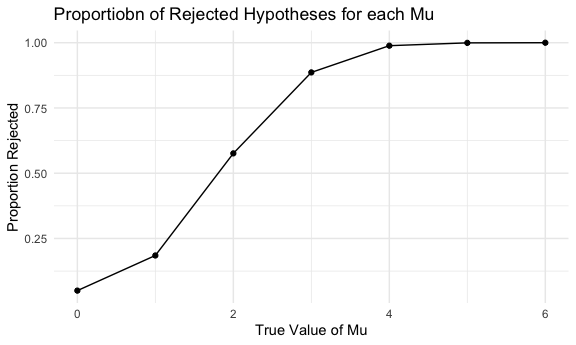
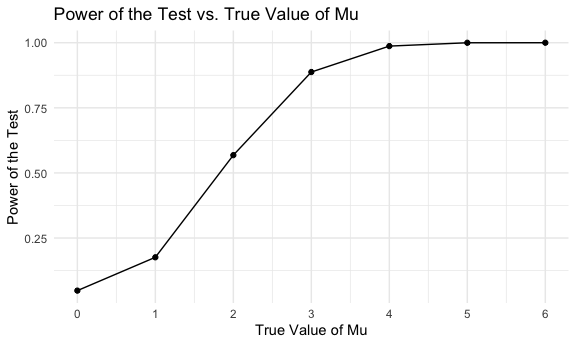
make plots of Problem 3.

diff --git a/p8105_hw5_cl4469.md b/p8105_hw5_cl4469.md
@@ -338,7 +338,7 @@ time.
 
 # Problem 3
 
-Fix n=30 Fix σ=5
+Fix n=30, σ=5, mu=0
 
 ``` r
 t_test = function(mu, n = 30, sigma = 5) {
@@ -369,19 +369,19 @@ sim_results_df
     ## # A tibble: 5,000 × 4
     ##       mu  iter estimate p_value
     ##    <dbl> <int>    <dbl>   <dbl>
-    ##  1     0     1   -1.28   0.0753
-    ##  2     0     2    1.22   0.220 
-    ##  3     0     3   -1.11   0.261 
-    ##  4     0     4    0.729  0.469 
-    ##  5     0     5    0.177  0.865 
-    ##  6     0     6   -1.52   0.0899
-    ##  7     0     7    0.334  0.739 
-    ##  8     0     8   -0.330  0.764 
-    ##  9     0     9   -0.626  0.433 
-    ## 10     0    10    0.160  0.831 
+    ##  1     0     1   0.0825   0.927
+    ##  2     0     2  -0.911    0.303
+    ##  3     0     3   0.639    0.494
+    ##  4     0     4   0.213    0.817
+    ##  5     0     5  -0.510    0.582
+    ##  6     0     6   0.816    0.476
+    ##  7     0     7   0.0114   0.989
+    ##  8     0     8   0.840    0.340
+    ##  9     0     9  -0.546    0.572
+    ## 10     0    10  -0.389    0.657
     ## # ℹ 4,990 more rows
 
-Repeat the above for mu=1,2,3,4,5,6, and complete the following:
+Repeat the above for mu=1,2,3,4,5,6,
 
 ``` r
 new_results_df = 
@@ -416,8 +416,83 @@ power_df |>
   ggplot(aes(x = mu, y = prop_rejext)) +
   geom_point() +
   geom_line() +
-  labs(title = "Proportiobn of Rejected Hypotheses for each Mu",
-       x = "True Value of Mu", y = "Proportion Rejected")
+  scale_x_continuous(breaks = seq(0,6))+
+  labs(
+       x = "True Value of Mu", 
+       y = "Power of the Test",
+       title = "Power of the Test vs. True Value of Mu")
 ```
 
 <img src="p8105_hw5_cl4469_files/figure-gfm/unnamed-chunk-10-1.png" width="95%" />
+
+Make a plot showing the average estimate of μ̂ on the y axis and the true
+value of μ on the x axis
+
+``` r
+mean_esti_df=
+  all_result_df |>
+  group_by(mu) |>
+  summarize(average_estimate = mean(estimate))
+
+mean_esti_df|>
+  ggplot(aes(x = mu, y = average_estimate)) + 
+  geom_point() + 
+  geom_line() +
+  scale_x_continuous(breaks = seq(0,6,1)) +
+  scale_y_continuous(breaks = seq(0,6,1)) +
+  labs(x = "True Value of Mu", y = "Average Estimate of Mu", title = "Average Estimate of Mu vs. True Value of Mu")
+```
+
+<img src="p8105_hw5_cl4469_files/figure-gfm/unnamed-chunk-11-1.png" width="95%" />
+Make a second plot (or overlay on the first) the average estimate of μ̂
+only in samples for which the null was rejected on the y axis and the
+true value of μ on the x axis.
+
+``` r
+rej_esti_df=
+  all_result_df |>
+  filter(p_value <= 0.05) |>
+  group_by(mu) |>
+  summarize(average_estimate = mean(estimate)) 
+
+rej_esti_df |>
+  ggplot(aes(x = mu, y = average_estimate)) + 
+  geom_point() + 
+  geom_line() +
+  scale_x_continuous(breaks = seq(0,6,1)) +
+  scale_y_continuous(breaks = seq(0,6,1)) +
+  labs(x = "True Value of Mu", y = "Average Estimate of Mu( Null was rejected)", title = "Average Estimate of Mu for which the Null was Rejected VS True Value of Mu")
+```
+
+<img src="p8105_hw5_cl4469_files/figure-gfm/unnamed-chunk-12-1.png" width="95%" />
+
+``` r
+ggplot() +
+  geom_line(data = mean_esti_df, aes(x = mu, y = average_estimate, color = "mean_esti_df")) +
+  geom_point(data = mean_esti_df, aes(x = mu, y = average_estimate, color = "mean_esti_df")) +
+  geom_line(data = rej_esti_df, aes(x = mu, y = average_estimate, color = "rej_esti_df")) +
+  geom_point(data = rej_esti_df, aes(x = mu, y = average_estimate, color = "rej_esti_df")) +
+  scale_x_continuous(breaks = seq(0,6,1)) +
+  scale_y_continuous(breaks = seq(0,6,1)) +
+  scale_color_manual(values = c("mean_esti_df" = "blue", "rej_esti_df" = "red"))
+```
+
+<img src="p8105_hw5_cl4469_files/figure-gfm/unnamed-chunk-13-1.png" width="95%" />
+
+``` r
+  labs(x = "True Value of Mu",
+       y = "Average Estimate of Mu",
+       title = "Mean Estimates and Rejections VS True Value of Mu")
+```
+
+    ## $x
+    ## [1] "True Value of Mu"
+    ## 
+    ## $y
+    ## [1] "Average Estimate of Mu"
+    ## 
+    ## $title
+    ## [1] "Mean Estimates and Rejections VS True Value of Mu"
+    ## 
+    ## attr(,"class")
+    ## [1] "labels"
